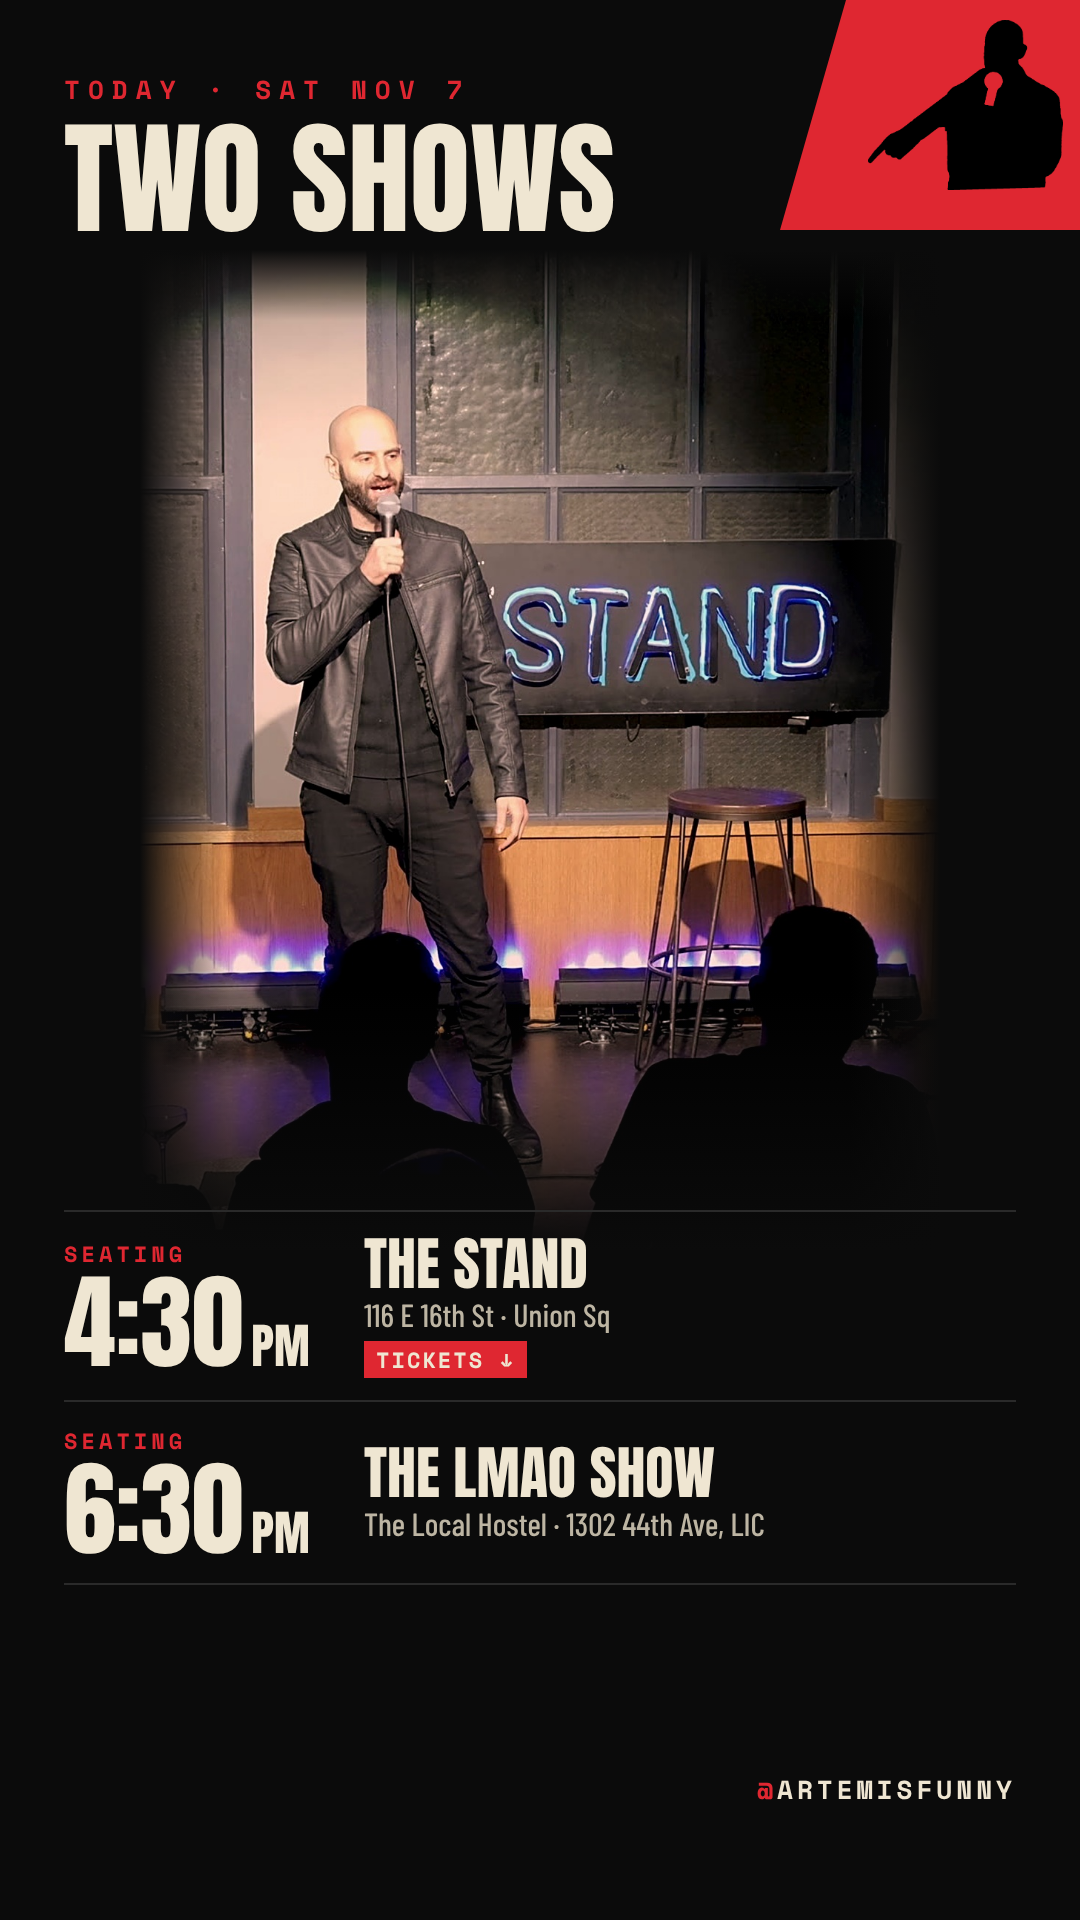
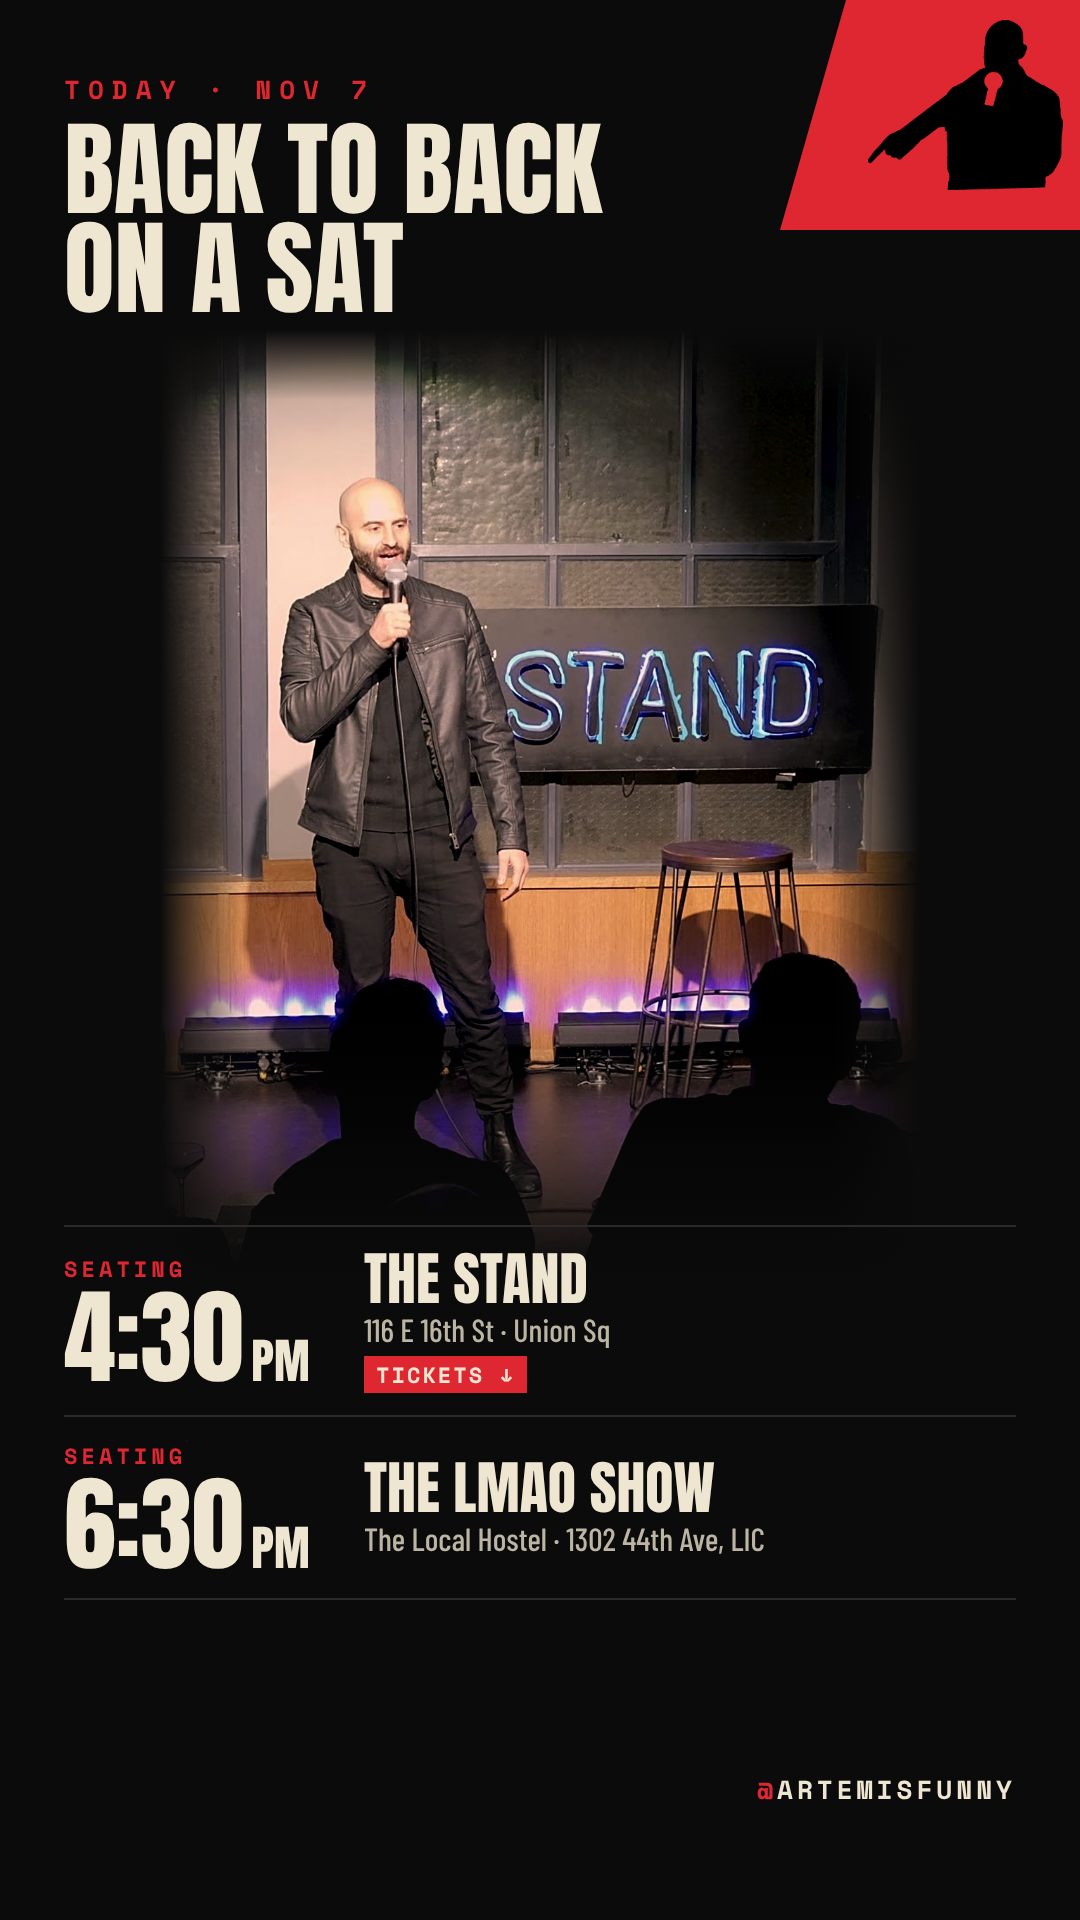
Nov 7 story: headline 'Back to back on a Sat'
Claude-Session: https://claude.ai/code/session_01EF93tf2SkdpUyMk565M89g

Changed region(s): [[0.0611, 0.0312, 0.8556, 0.8125], [0.0611, 0.625, 0.3056, 0.8438]]

diff --git a/nov-7-double/build.py b/nov-7-double/build.py
@@ -33,9 +33,9 @@ html, body {{ background:{BG}; color:{CREAM}; overflow:hidden; }}
         clip-path:polygon(22% 0, 100% 0, 100% 100%, 0 100%); z-index:3; }}
 .logo img {{ position:absolute; width:195px; left:88px; top:20px; filter:brightness(0); }}
 .kicker {{ font-family:'Space Mono'; font-weight:700; color:{RED}; letter-spacing:8px; font-size:26px; }}
-.head {{ font-family:'Anton'; font-size:124px; line-height:.95; }}
-.photo {{ position:absolute; left:140px; top:250px; width:800px; height:1000px; }}
-.photo img {{ width:800px; height:1000px; display:block; }}
+.head {{ font-family:'Anton'; font-size:104px; line-height:.95; }}
+.photo {{ position:absolute; left:160px; top:330px; width:760px; height:950px; }}
+.photo img {{ width:760px; height:950px; display:block; }}
 .fade-b {{ position:absolute; left:0; right:0; bottom:0; height:260px;
           background:linear-gradient(to bottom, rgba(11,11,11,0), {BG}); }}
 .fade-t {{ position:absolute; left:0; right:0; top:0; height:70px;
@@ -43,7 +43,7 @@ html, body {{ background:{BG}; color:{CREAM}; overflow:hidden; }}
 .fade-l, .fade-r {{ position:absolute; top:0; bottom:0; width:90px; }}
 .fade-l {{ left:0; background:linear-gradient(to right, {BG}, rgba(11,11,11,0)); }}
 .fade-r {{ right:0; background:linear-gradient(to left, {BG}, rgba(11,11,11,0)); }}
-.rows {{ position:absolute; left:64px; right:64px; top:1210px; }}
+.rows {{ position:absolute; left:64px; right:64px; top:1225px; }}
 .row {{ display:flex; align-items:center; border-top:2px solid #2a2a2a; padding:22px 0; }}
 .row:last-child {{ border-bottom:2px solid #2a2a2a; }}
 .t {{ flex:0 0 300px; }}
@@ -77,8 +77,8 @@ def story():
 <div class="page">
   <div class="logo"><img src="{LOGO}"></div>
   <div style="position:absolute;left:64px;top:70px">
-    <div class="kicker">TODAY · SAT NOV 7</div>
-    <div class="head" style="margin-top:12px">TWO SHOWS</div>
+    <div class="kicker">TODAY · NOV 7</div>
+    <div class="head" style="margin-top:12px">BACK TO BACK<br>ON A SAT</div>
   </div>
   <div class="photo"><img src="{PHOTO}"><div class="fade-t"></div><div class="fade-l"></div><div class="fade-r"></div><div class="fade-b"></div></div>
   <div class="rows">{rows()}</div>
